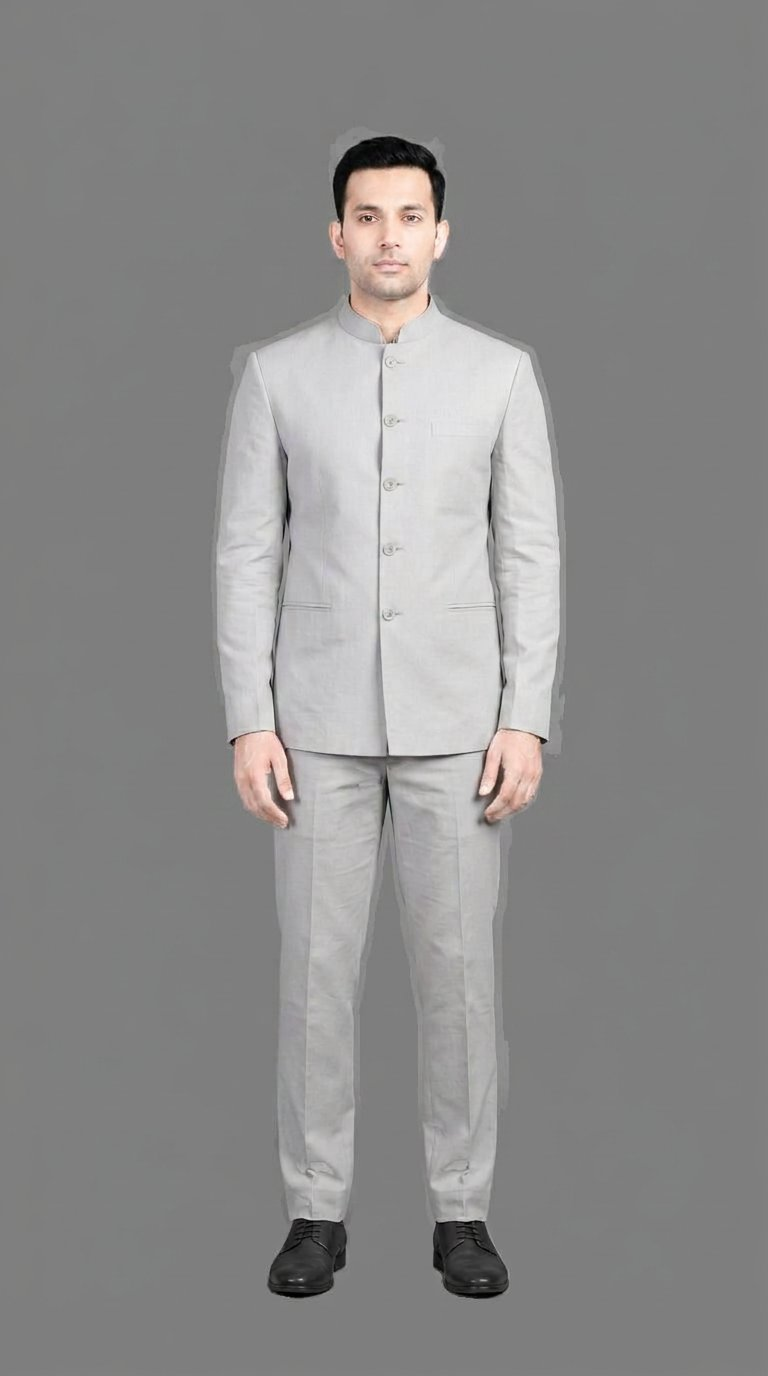
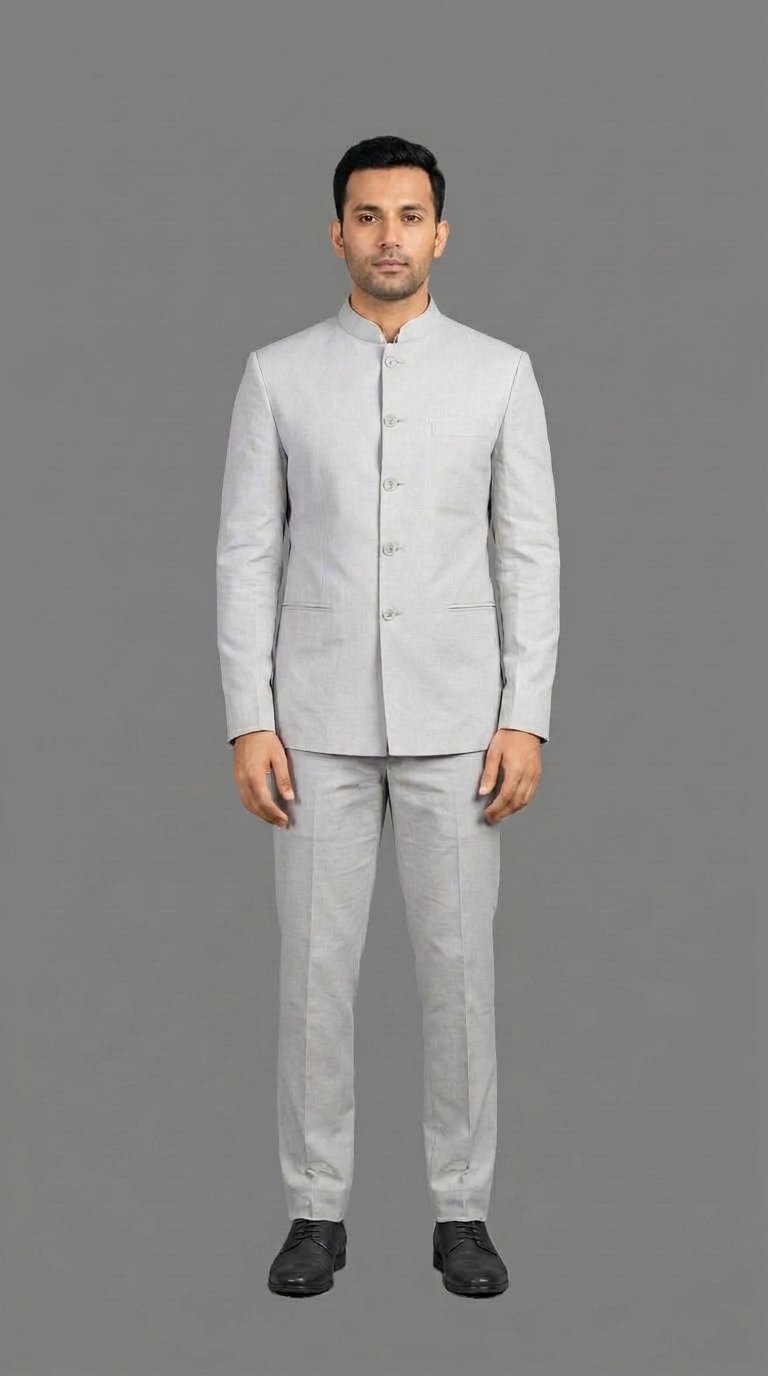
M15 all 6 tones regenerated from current base (closes stale-lineage; 2 of 6 pass, 4 queued for chained re-do), fix M13/deep and M10/ebony via sibling edits (both PASS now), M11/light-tan overshot; 98/192 verified

diff --git a/template/README.md b/template/README.md
@@ -54,25 +54,33 @@ Tone anchors (target face-patch luminance): fair 174, light-warm 158, light-tan 
 medium-brown 111, deep 80, ebony 67.
 
 ### Counts
-- **94 of 192 tone images pass all six checks.**
-- **98 generations remain** (see queue below).
+- **98 of 192 tone images pass all six checks.**
+- **94 generations remain**, listed in the queue below.
+
+### Key method: chained sibling edits (learned from 6 failed re-dos)
+Editing a tone variant straight from `base/` repeatedly overshot or undershot on garments whose base
+skin sits far from the target tone (M13/deep overshot twice in opposite directions; M15's whole set
+came out compressed and too dark). Generating each variant from its **nearest already-correct sibling**
+with a *small* instruction ("slightly darker", "only a touch lighter") converged first time:
+M13/deep from M13/ebony -> 72.9 PASS; M10/ebony from M10/deep -> 58.8 PASS.
+For M15 the next pass will build the ladder as a chain: fair from base, light-warm from fair,
+light-tan from light-warm, ebony from deep - which enforces spacing by construction.
 
 ### QC method notes (what does NOT work — learned the hard way)
-Three automated defect proxies were tried and rejected after validation, because each produced
-false positives or missed known cases: edge-hard-jump counts inside the garment region (rises with
-skin/garment contrast, so it flags correct dark-tone files); cloth-region high-frequency percentile
-(identical bands for fresh and stale files); and base-lineage MAD against the pre-fix vs post-fix
-base blob (a diffusion re-render aligns with neither). **The gate is: visual inspection of the image
-plus a contact-sheet of all 6 tones, combined with provenance** (a tone file committed before its
-base was regenerated is treated as stale regardless of how clean it looks).
+Three automated defect proxies were tried and rejected after validation, because e### Queue (priority order)
+1. `light-tan/M11-pathani` (120.7, collides with its medium-brown 120.3) and `ebony/M11-pathani`
+   (stale, pre-base-fix) - M11's other 4 tones pass.
+2. `M15-let-ai-decide` - `fair` (158.5), `light-warm` (139.4), `light-tan` (109.9) off-anchor and
+   `ebony` (78.9) colliding with `deep` (75.6). Redo via the chained-sibling method above;
+   `medium-brown` and `deep` already pass. All 6 are now derived from the current base, so the old
+   stale-lineage concern for M15 is closed.
+3. `W1-saree` all 6 tones - visually confirmed defect: tones carry scalloped/torn blotches on the
+   lower drape that the current base does not have.
+4. `W2-lehenga-choli` all 6 tones (stale by provenance; `deep`/`ebony` also measure +7%/+17% edge
+   energy) then `W5` (4) and `W6`-`W17` (72, never generated; includes overwriting the 3 `light-tan`
+   pixel-copy placeholders for W11/W14/W16).
 
-Tone numbers are still measured automatically (face-patch luminance vs the anchors below) - that
-part works and has caught several real defects.
-
-### Queue (priority order)
-1. Tone re-dos - `ebony/M10-bandhgala` (76.0, collides with its `deep` 78.5), `light-tan/M11-pathani`
-   (148.6, only 5.1 from `light-warm`), `deep/M13-casual-coord` (59.5; two regens overshot in
-   opposite directions - try editing the closest on-tone sibling instead of the base).
+tone sibling instead of the base).
 2. `W1-saree` all 6 tones - visually confirmed: tones carry scalloped/torn blotches on the lower
    drape that the current base does not have; the set no longer matches its own base.
 3. `W2-lehenga-choli` 6 tones + `M11-pathani/ebony` - stale by provenance (pre-base-fix).
